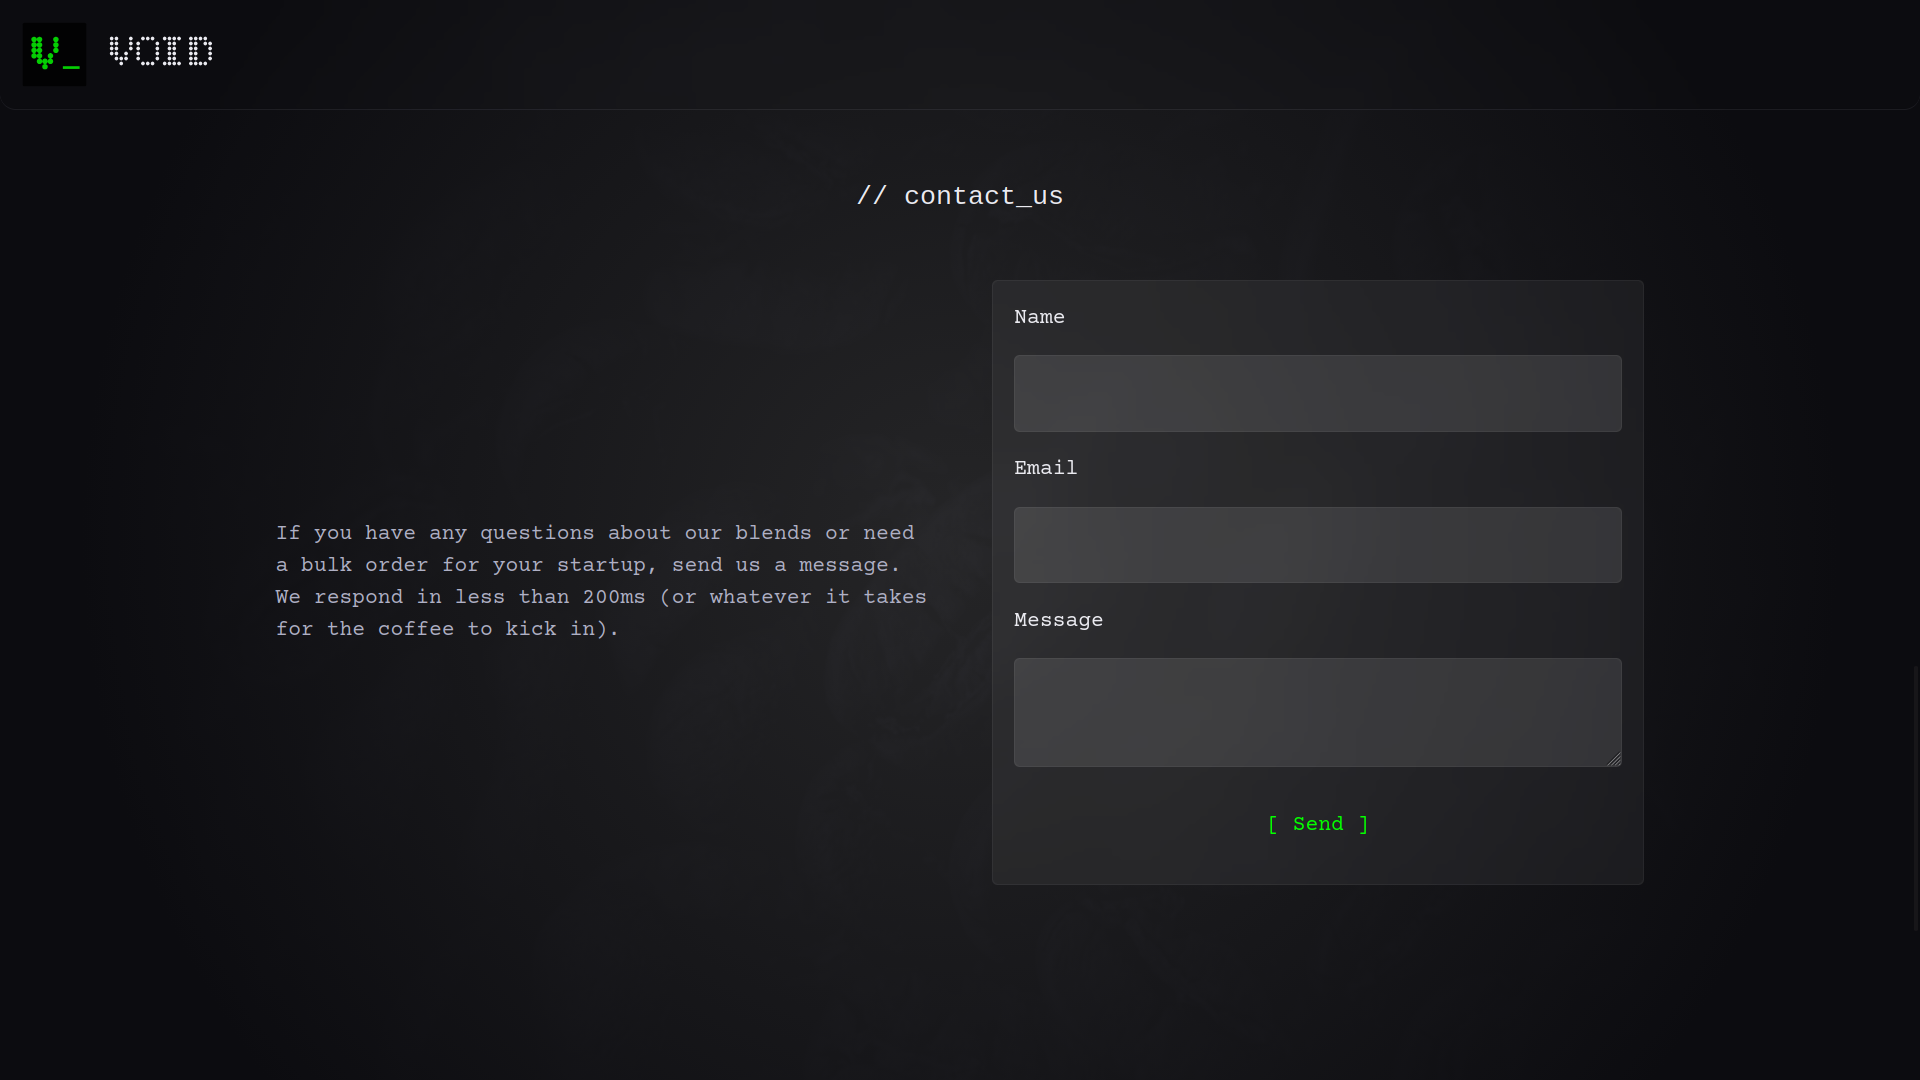
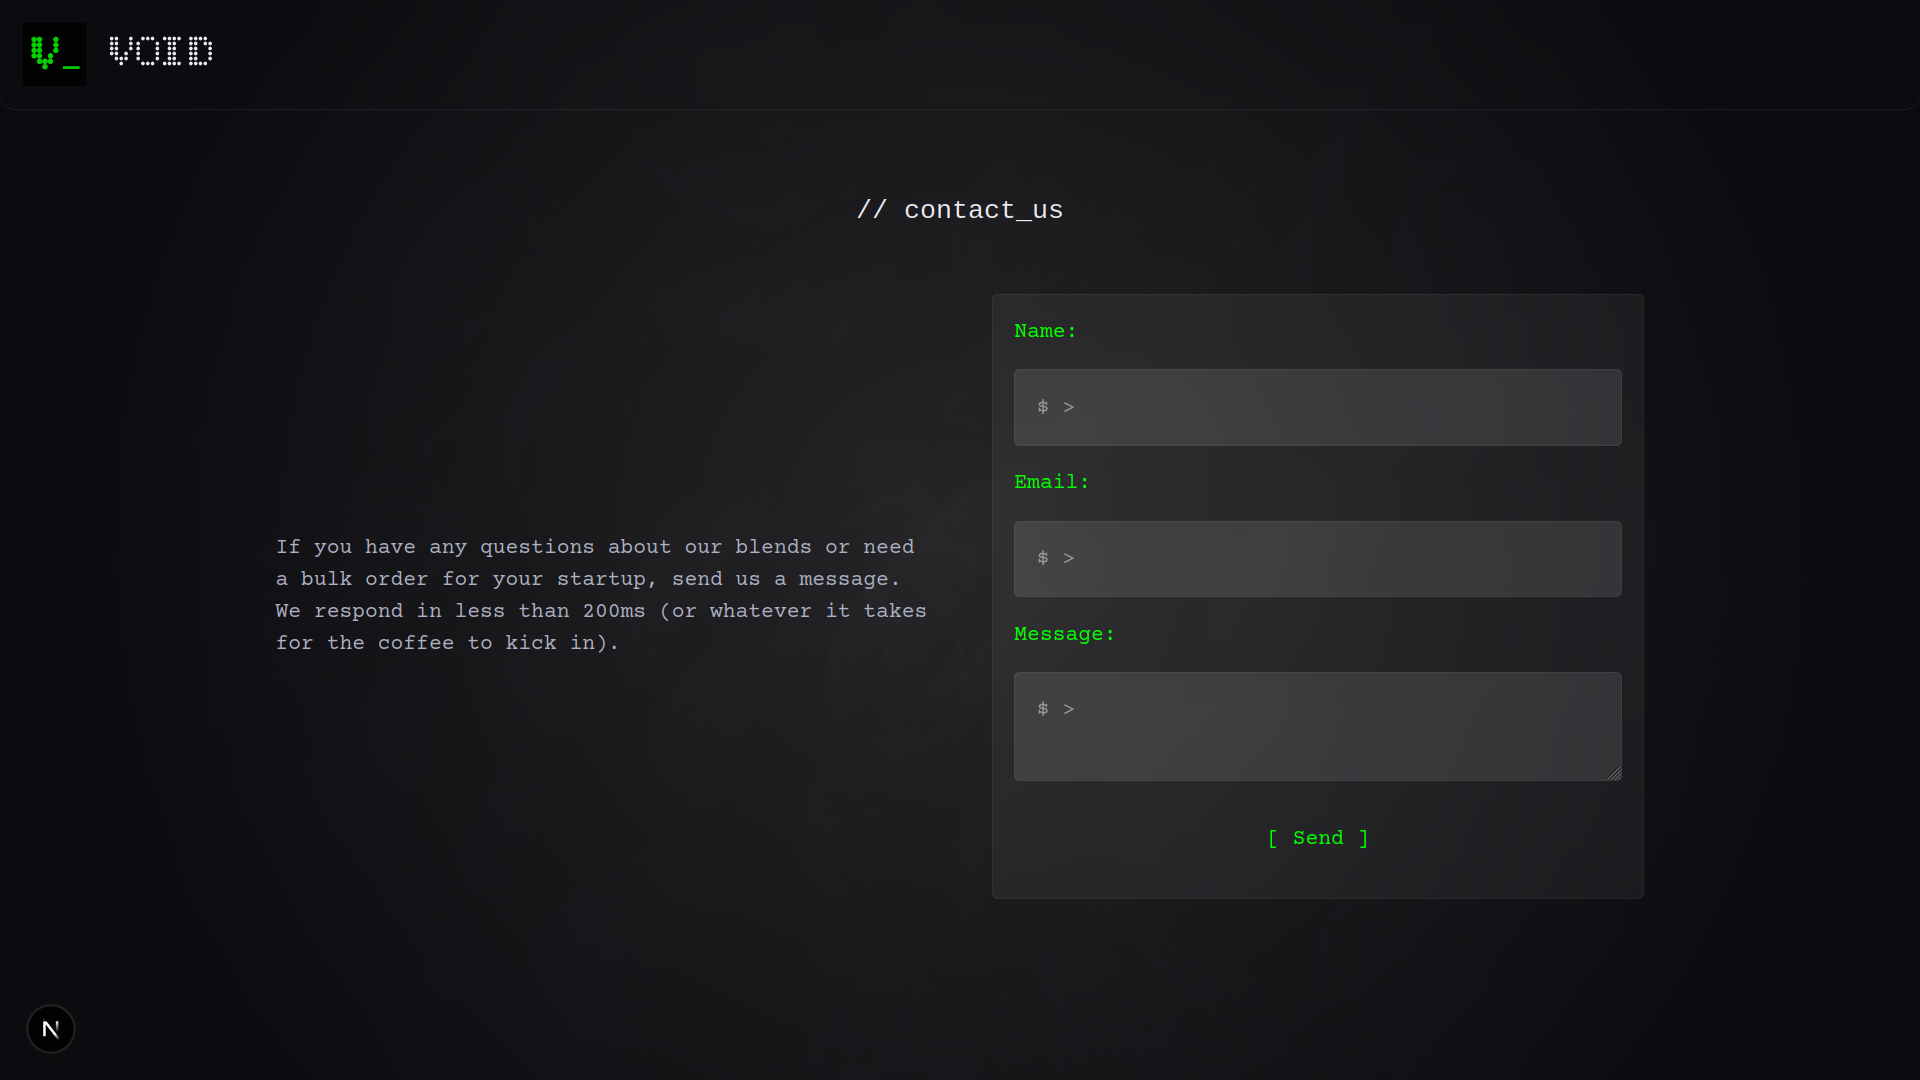
feat: Add accent styling to contact form labels and placeholder text to input fields.

diff --git a/components/ContactUsForm.tsx b/components/ContactUsForm.tsx
@@ -29,24 +29,33 @@ function ContactUsForm() {
       className="flex flex-col gap-4 bg-white/5 backdrop-blur-md border border-white/5 rounded-sm p-4 w-full"
       onSubmit={handleSendEmail}
     >
-      <label htmlFor="name">Name</label>
+      <label htmlFor="name" className="text-accent">
+        Name:
+      </label>
       <input
         type="text"
         id="name"
         name="name"
+        placeholder="$ >"
         className="bg-white/5 backdrop-blur-md border border-white/5 rounded-sm p-4 "
       />
-      <label htmlFor="email">Email</label>
+      <label htmlFor="email" className="text-accent">
+        Email:
+      </label>
       <input
         type="email"
         id="email"
         name="email"
+        placeholder="$ >"
         className="bg-white/5 backdrop-blur-md border border-white/5 rounded-sm p-4 "
       />
-      <label htmlFor="message">Message</label>
+      <label htmlFor="message" className="text-accent">
+        Message:
+      </label>
       <textarea
         id="message"
         name="message"
+        placeholder="$ >"
         className="bg-white/5 backdrop-blur-md border border-white/5 rounded-sm p-4 "
       ></textarea>
       {!isSubmitted && (
